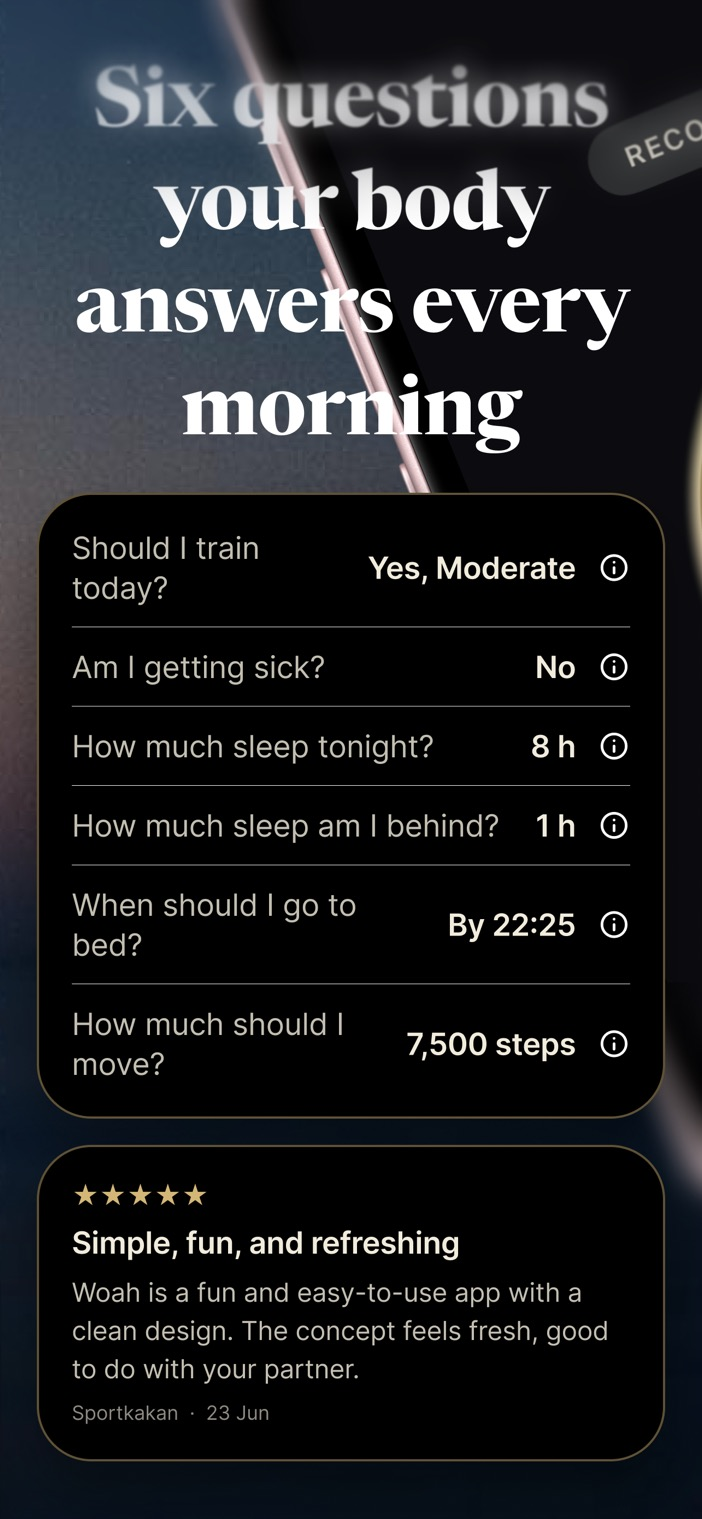
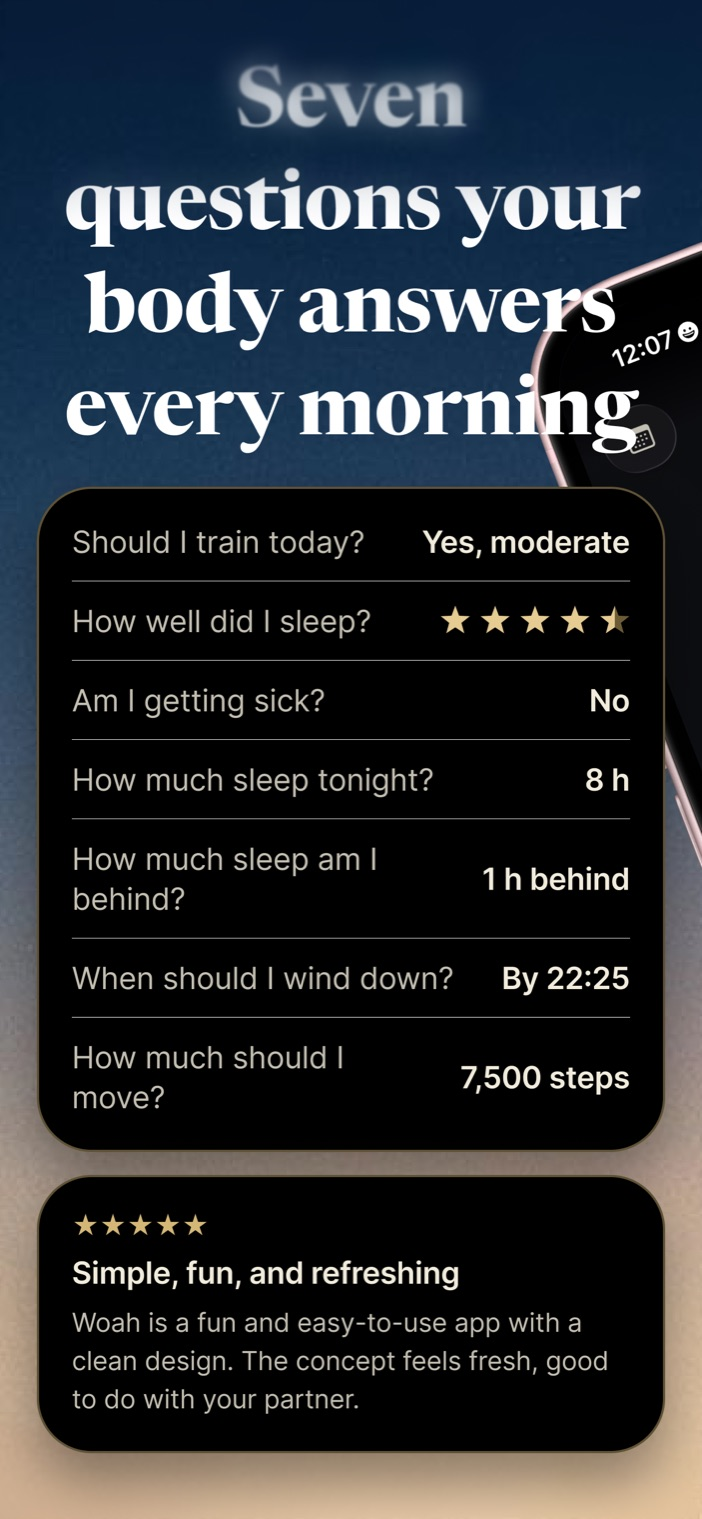
Screenshots: the 3.3 set, in the order the App Store carries
Mirrors woah-site. The gallery was still on the 8 August set; this is
"3.3 24 aug" at the same 702x1519, in the order the App Store listing
uses — which is not the export order, since "Your night. Your real age."
sits last rather than seventh.

Alt text rewritten for six of the ten. The first still said "Six
questions" where the image says Seven.

diff --git a/index.html b/index.html
@@ -412,16 +412,16 @@
 
     <div class="gallery" aria-label="Screenshots from the app">
       <div class="track" id="track">
-        <figure class="shot"><img src="screens/screen-1.jpg" alt="Six questions your body answers every morning — the Today, answered matrix" decoding="async" /></figure>
+        <figure class="shot"><img src="screens/screen-1.jpg" alt="Seven questions your body answers every morning — the Today, answered matrix" decoding="async" /></figure>
         <figure class="shot"><img src="screens/screen-2.jpg" alt="One score that tells you how hard to go today — the daily recovery orb" decoding="async" /></figure>
-        <figure class="shot"><img src="screens/screen-3.jpg" alt="Your score, on your wrist — recovery and today's answers on Apple Watch" decoding="async" /></figure>
+        <figure class="shot"><img src="screens/screen-3.jpg" alt="Your answers, on your wrist — recovery and today's answers on Apple Watch" decoding="async" /></figure>
         <figure class="shot"><img src="screens/screen-4.jpg" alt="Know if you should train today — plain-language answers, not raw data" loading="lazy" decoding="async" /></figure>
         <figure class="shot"><img src="screens/screen-5.jpg" alt="Coaching, not guilt — calm, personal daily notifications" loading="lazy" decoding="async" /></figure>
         <figure class="shot"><img src="screens/screen-6.jpg" alt="Two people, two mornings — both partners' recovery, side by side" loading="lazy" decoding="async" /></figure>
-        <figure class="shot"><img src="screens/screen-7.jpg" alt="Recover as a team — see who needs rest, who can push, who needs support" loading="lazy" decoding="async" /></figure>
-        <figure class="shot"><img src="screens/screen-8.jpg" alt="Your body has its own age — fitness age, projected lifespan and days remaining" loading="lazy" decoding="async" /></figure>
-        <figure class="shot"><img src="screens/screen-9.jpg" alt="Ask your body anything — a coach that reads your recovery trend" loading="lazy" decoding="async" /></figure>
-        <figure class="shot"><img src="screens/screen-10.jpg" alt="Works with the watch you already own — Apple Watch, Oura, Garmin, or any device that writes to Apple Health" loading="lazy" decoding="async" /></figure>
+        <figure class="shot"><img src="screens/screen-7.jpg" alt="Set a goal, get a plan, ask your body anything — the Woah Coach reading your recovery trend" loading="lazy" decoding="async" /></figure>
+        <figure class="shot"><img src="screens/screen-8.jpg" alt="Works with the watch you already own — Apple Watch, Oura, Garmin, or any device that writes to Apple Health" loading="lazy" decoding="async" /></figure>
+        <figure class="shot"><img src="screens/screen-9.jpg" alt="All your health decoded — recovery, sleep and lifestyle scores, fitness age, coach, habits, tank, trends, partner and widgets" loading="lazy" decoding="async" /></figure>
+        <figure class="shot"><img src="screens/screen-10.jpg" alt="Your night, your real age — sleep score, hypnogram and fitness age" loading="lazy" decoding="async" /></figure>
       </div>
     </div>
 
